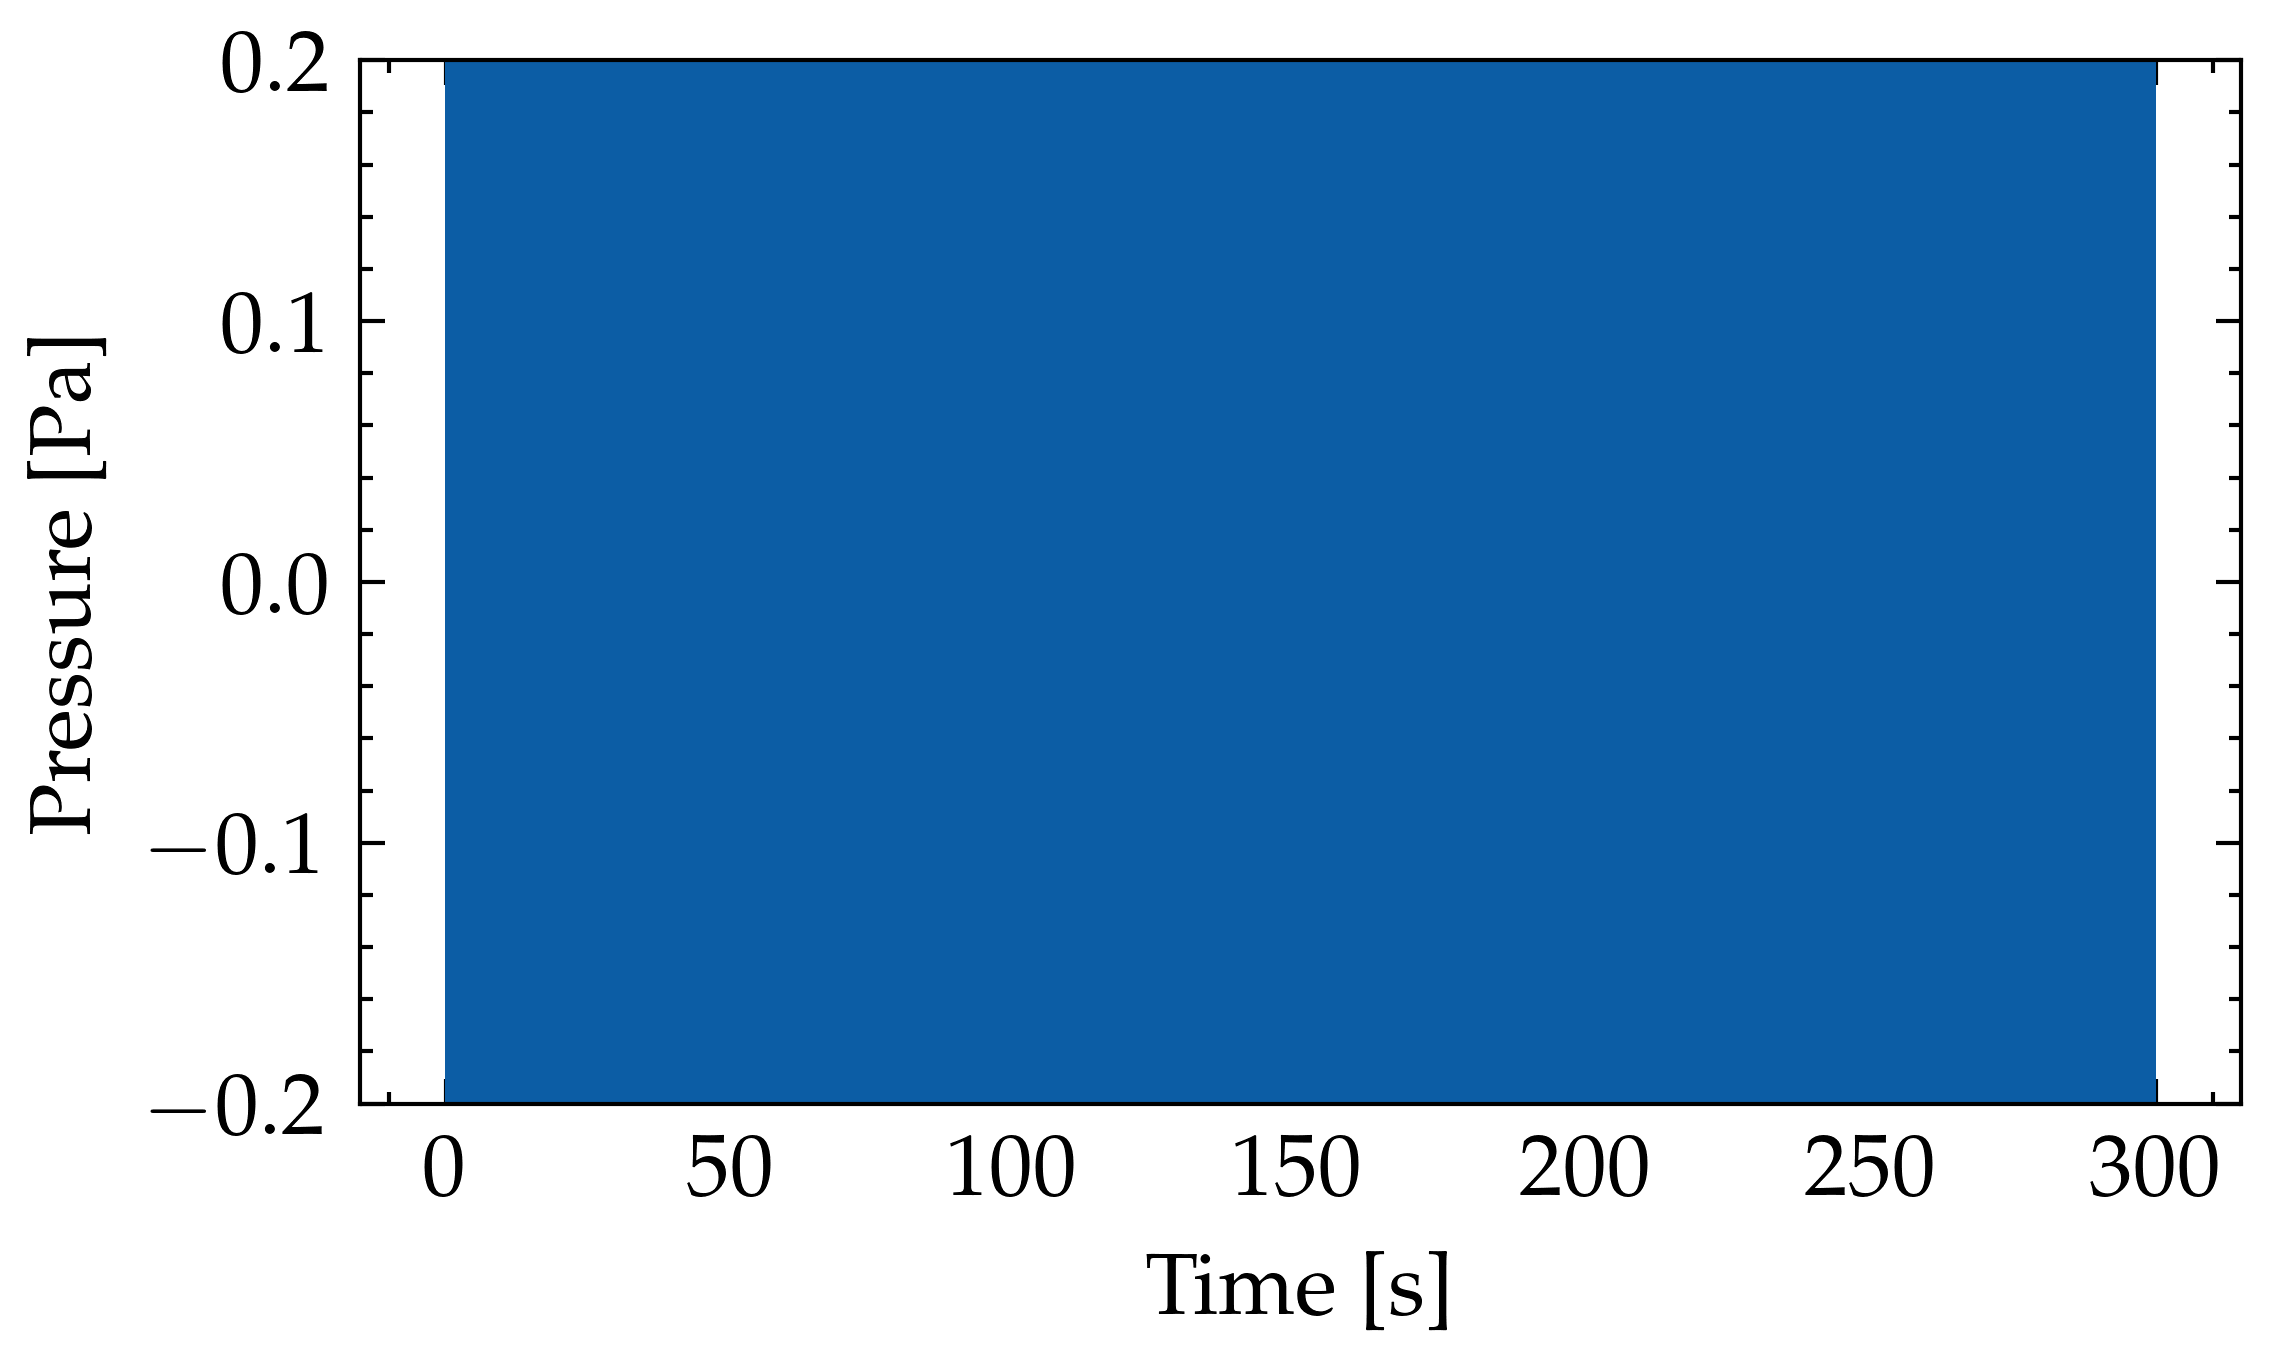
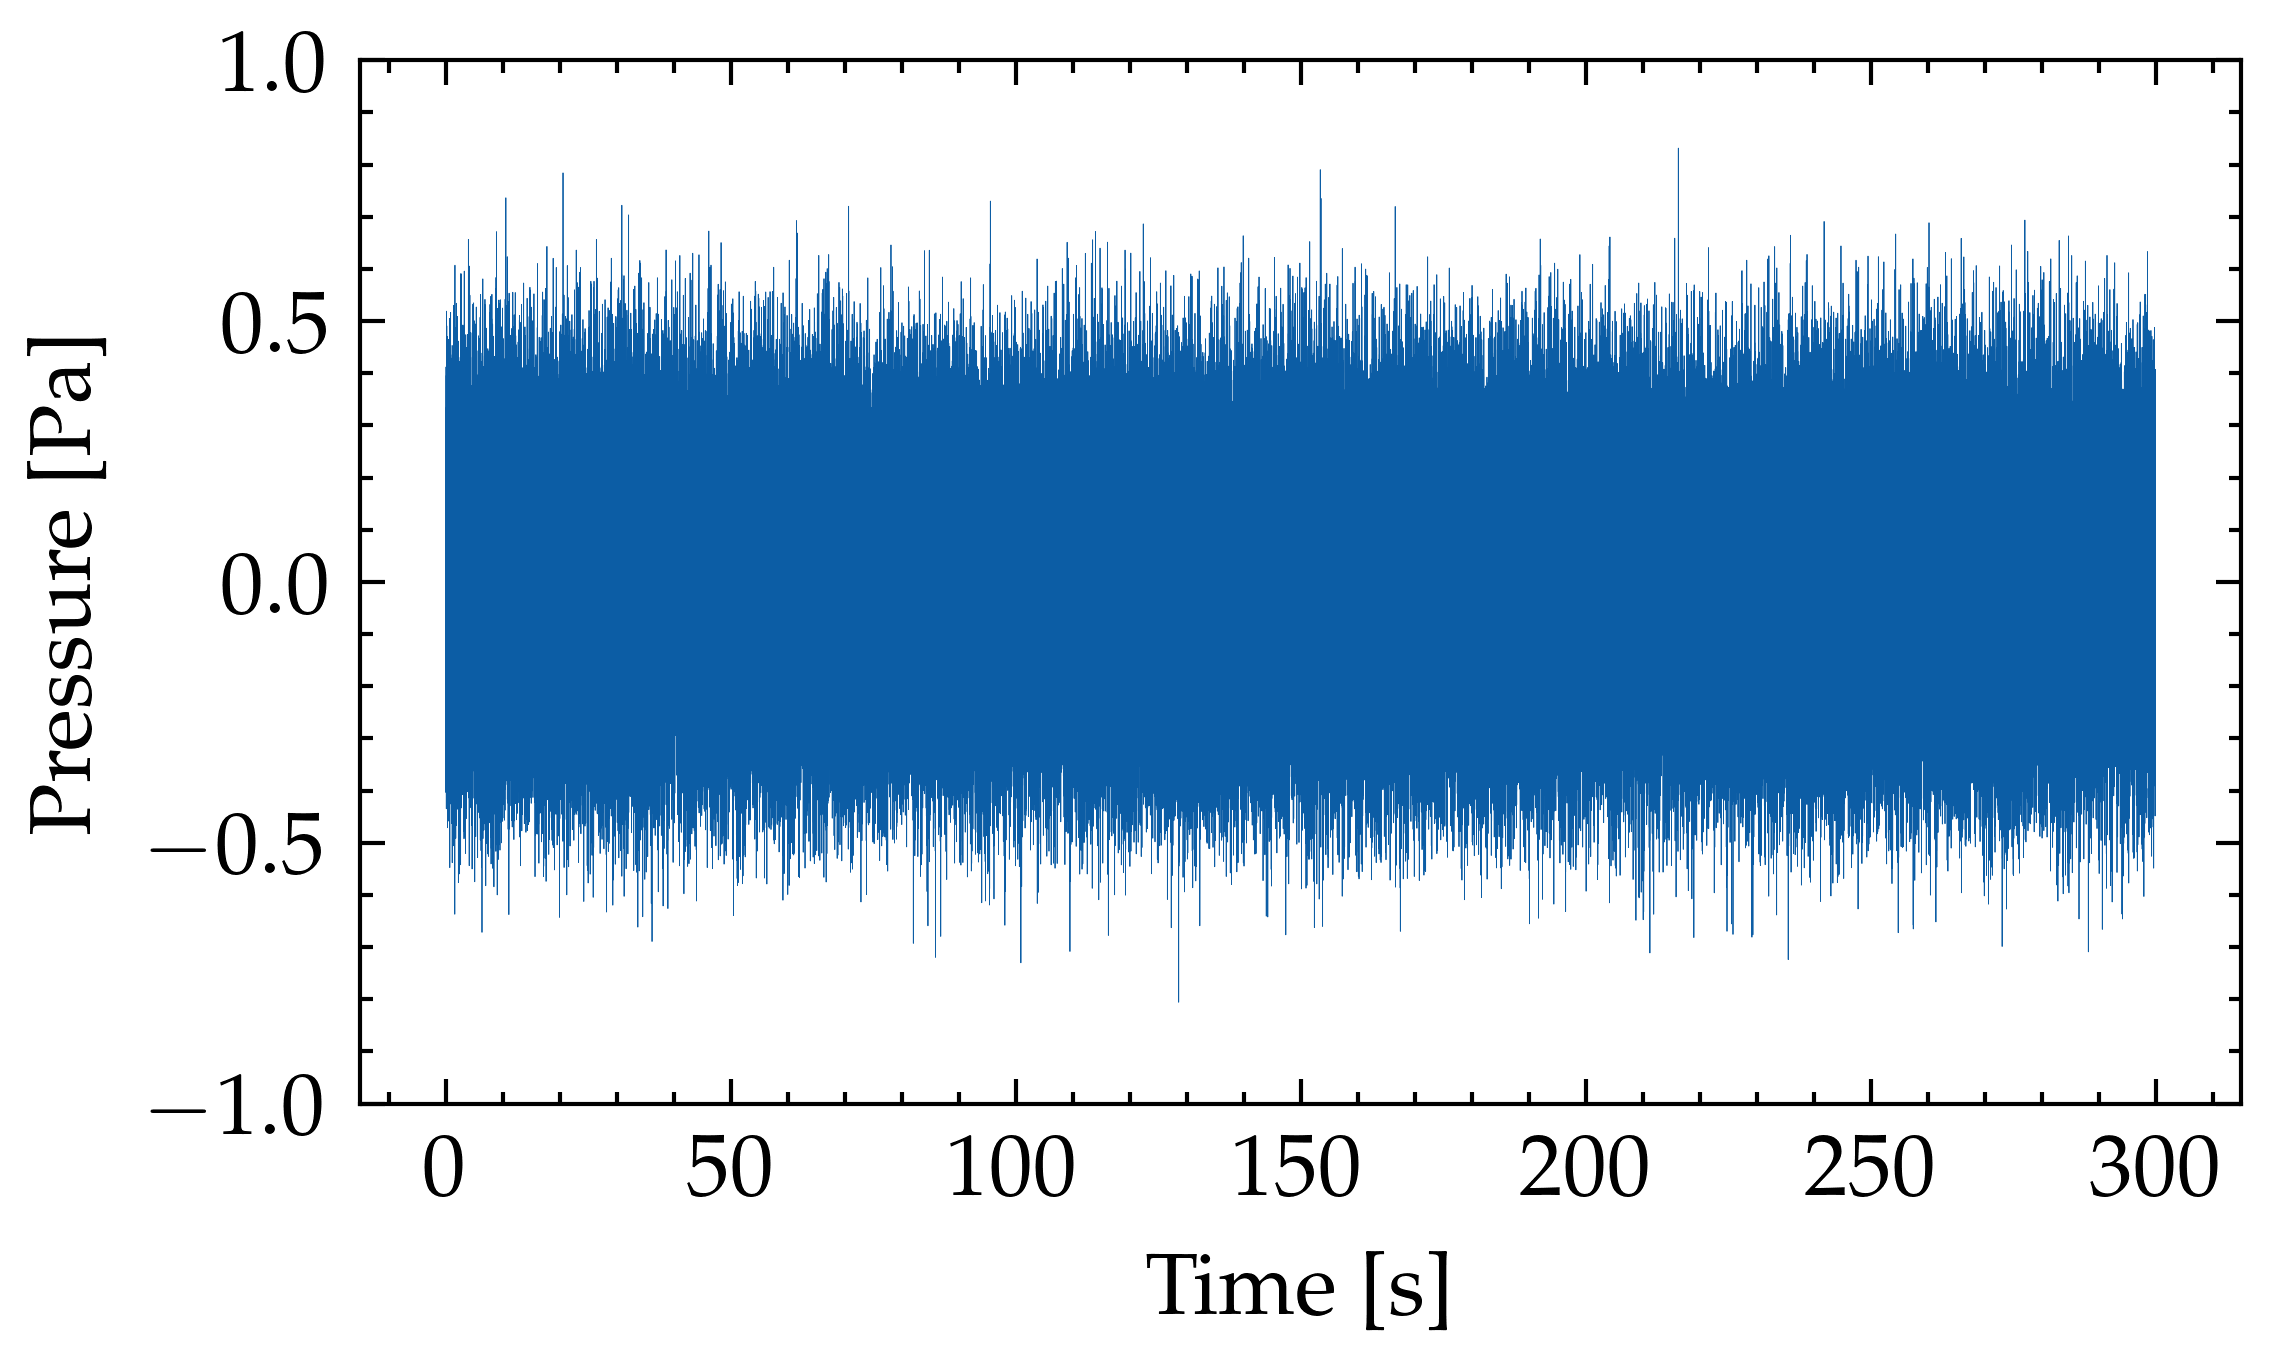
Okay raw signals plotted

diff --git a/src/atm_callibration.py b/src/atm_callibration.py
@@ -189,12 +189,10 @@ def load_mat_to_pa(path: str, key: str, ch1_name: str, ch2_name: str):
     return x_pa, y_pa
 
 
-def compute_spec(fs: float, x: np.ndarray):
+def compute_spec(fs: float, x: np.ndarray, npsg : int = NPERSEG):
     """Welch PSD with sane defaults and shape guarding. Returns (f [Hz], Pxx [Pa^2/Hz])."""
     x = np.asarray(x, float)
-    nseg = int(min(NPERSEG, x.size))
-    if nseg < 8:
-        raise ValueError(f"Signal too short for PSD: n={x.size}")
+    nseg = int(min(npsg, x.size))
     nov = nseg // 2
     w = get_window(WINDOW, nseg, fftbins=True)
     f, Pxx = welch(
@@ -540,6 +538,39 @@ def main_NC():
         plot_corrected_trace_NC(t, nkd, nc, nkd_hat, f"{FIG_DIR}/nkd_recon_{psi_labels[idx]}", psi_labels[idx])
 
 
+
+def pre_mult_raw_sig():
+    root = 'data/11092025'
+    fn_sweep = [f'{root}/data.mat' for _ in psi_labels]
+    OUTPUT_DIR = "figures/cali_09/flow"
+    os.makedirs(OUTPUT_DIR, exist_ok=True)
+    PH_path = _resolve_cal_dir("PH-NKD")   # PH→NKD (intended)
+    NC_path = _resolve_cal_dir("NKD-NC")   # NKD→NC
+
+    RAW_DIR = f"{OUTPUT_DIR}/raw"
+    os.makedirs(RAW_DIR, exist_ok=True)
+
+    delta, nu_s = inner_scales(Re_taus, u_taus, nu_atm)
+    pressures = np.array([P_ATM] + [P_ATM + float(p[:-3]) * PSI_TO_PA for p in psi_labels[1:]], dtype=float)
+    rhos = pressures / (R * T)
+
+    for idx in range(len(psi_labels)):
+        ic(f"Processing {psi_labels[idx]}...")
+
+        # Load real data (to Pa): channelData_300 -> col1=NC, col2=PH
+        nc, ph = load_pair_pa(fn_sweep[idx], 'channelData_300')
+        t = np.arange(len(ph)) / FS
+        plot_time_series(t, ph, f"{RAW_DIR}/ph_{psi_labels[idx]}")
+        plot_time_series(t, nc, f"{RAW_DIR}/nc_{psi_labels[idx]}")
+
+
+        for npsgs in [2**12, 2**14, 2**15]:
+            ic("yeh")
+            f_raw, Pyy_raw = compute_spec(FS, ph, npsg=npsgs)
+            plot_raw_spectrum(f_raw, f_raw * Pyy_raw, f"{RAW_DIR}/Pyy_ph_{psi_labels[idx]}_npsg{npsgs}")
+            f_raw, Pyy_raw = compute_spec(FS, nc, npsg=npsgs)
+            plot_raw_spectrum(f_raw, f_raw * Pyy_raw, f"{RAW_DIR}/Pyy_nc_{psi_labels[idx]}_npsg{npsgs}")
+
 ############################
 # Apply to flow data
 ############################
@@ -564,17 +595,14 @@ def real_data():
         # Load real data (to Pa): channelData_300 -> col1=NC, col2=PH
         nc, ph = load_pair_pa(fn_sweep[idx], 'channelData_300')
         t = np.arange(len(ph)) / FS
-        plot_time_series(t, ph, f"{RAW_DIR}/ph_{psi_labels[idx]}")
-        plot_time_series(t, nc, f"{RAW_DIR}/nc_{psi_labels[idx]}")
 
-        # --- Raw PH spectrum (for comparison)
-        f_raw, Pyy_raw = compute_spec(FS, ph)
 
         # --- Correct NC: invert NKD→NC to get NKD from NC
         H_NC = np.load(f"{NC_path}/H_{psi_labels[idx]}.npy")
         gamma2_NC = np.load(f"{NC_path}/gamma2_{psi_labels[idx]}.npy")
         f_NC = np.load(f"{NC_path}/f_{psi_labels[idx]}.npy")
         nkd_from_nc = wiener_inverse(nc, FS, f_NC, H_NC, gamma2_NC)
+        plot_time_series(t, nkd_from_nc, f"{RAW_DIR}/nkd_recon_from_nc_{psi_labels[idx]}")
 
         # --- Correct PH: forward PH→NKD with stabilisation (prevents HF roll-off or |H|<1 in coherent band)
         H_PH = np.load(f"{PH_path}/H_{psi_labels[idx]}.npy")
@@ -599,11 +627,11 @@ def real_data():
 
         # --- Plots
         plot_raw_spectrum(f_rej, f_rej * Pyy_rej, f"{OUTPUT_DIR}/Pyy_{psi_labels[idx]}_rej")
-        plot_spectrum_pipeline(
-            [f_raw,    f_corr,     f_rej],
-            [f_raw*Pyy_raw, f_corr*Pyy_corr, f_rej*Pyy_rej],
-            f"{OUTPUT_DIR}/Pyy_comparison_{psi_labels[idx]}"
-        )
+        # plot_spectrum_pipeline(
+        #     [f_raw,    f_corr,     f_rej],
+        #     [f_raw*Pyy_raw, f_corr*Pyy_corr, f_rej*Pyy_rej],
+        #     f"{OUTPUT_DIR}/Pyy_comparison_{psi_labels[idx]}"
+        # )
 
 
 if __name__ == "__main__":

diff --git a/presentation/atm_cali/spectra_clean.tex b/presentation/atm_cali/spectra_clean.tex
@@ -77,8 +77,27 @@
     \frametitle{Simultaneous PH and NC measurements}
     \centering
     Raw pinhole (PH) mic. data
-    \includegraphics{../figures/cali_09/PH-NKD/ph_atm.png}
+    \includegraphics[width=0.6\linewidth]{../figures/cali_09/flow/raw/ph_atm.png}
     Raw nose cone (NC) mic. data
+    \includegraphics[width=0.6\linewidth]{../figures/cali_09/flow/raw/nc_atm.png}
+\end{frame}
+
+\begin{frame}
+    \frametitle{Pre-multiplied raw spectra at $N=2^{10}, 2^{12}, 2^{14}$}
+    \begin{columns}[c] % vertically centered
+        \column{0.5\textwidth}
+            \centering
+            Pinhole mic.
+            \includegraphics[width=\linewidth]{../figures/cali_09/flow/raw/Pyy_ph_atm_npsg32768.png}
+            \includegraphics[width=\linewidth]{../figures/cali_09/flow/raw/Pyy_ph_atm_npsg16384.png}
+            \includegraphics[width=\linewidth]{../figures/cali_09/flow/raw/Pyy_ph_atm_npsg4096.png}
+
+        \column{0.5\textwidth}
+            \centering
+            Nose cone mic.
+            \includegraphics[width=\linewidth]{../figures/cali_09/flow/raw/Pyy_nc_atm_npsg32768.png}
+            \includegraphics[width=\linewidth]{../figures/cali_09/flow/raw/Pyy_nc_atm_npsg16384.png}
+            \includegraphics[width=\linewidth]{../figures/cali_09/flow/raw/Pyy_nc_atm_npsg4096.png}
 \end{frame}
 
 \begin{frame}

diff --git a/src/plotting.py b/src/plotting.py
@@ -53,7 +53,7 @@ def plot_time_series(t, p_w, outfile):
     ax.plot(t, p_w, lw=0.1)
     ax.set_xlabel("Time [s]")
     ax.set_ylabel("Pressure [Pa]")
-    ax.set_ylim(-.2, .2)
+    ax.set_ylim(-1, 1)
     # ax.legend()
     plt.tight_layout()
     plt.savefig(outfile)
